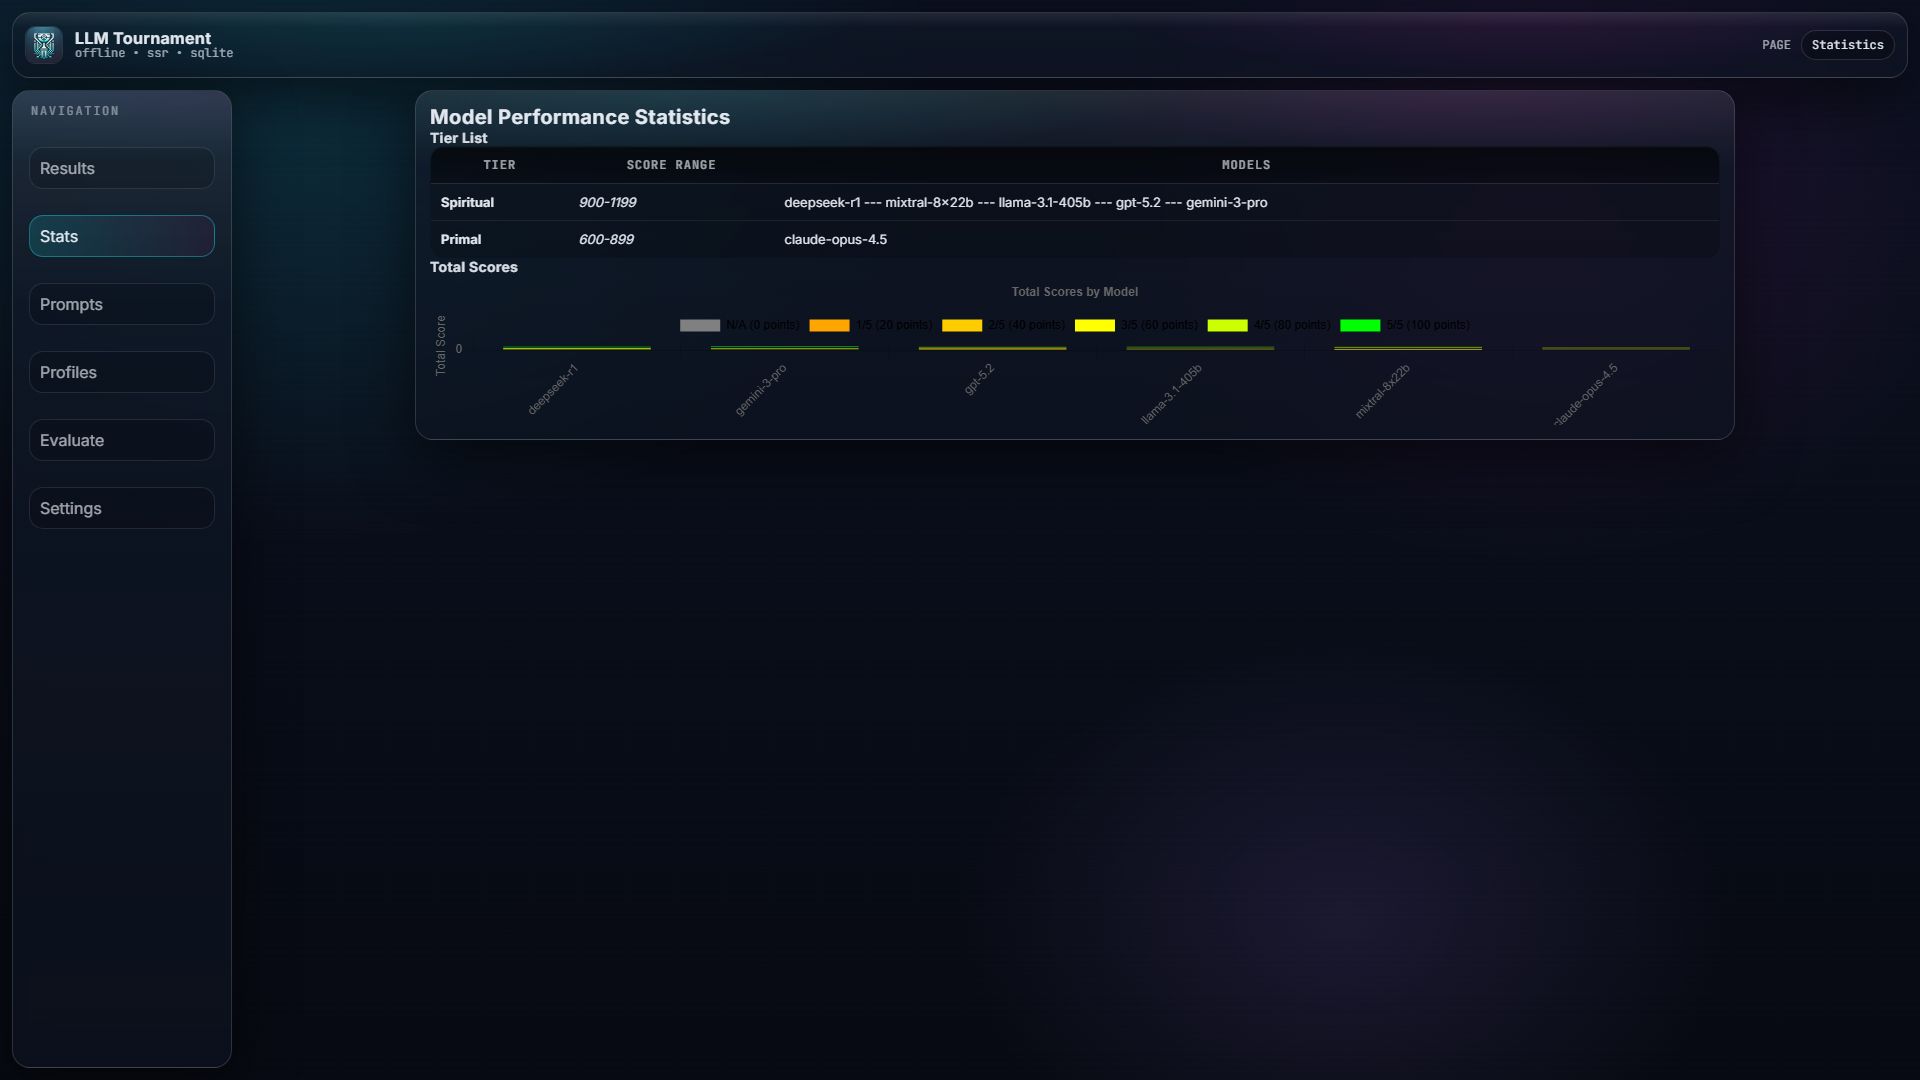
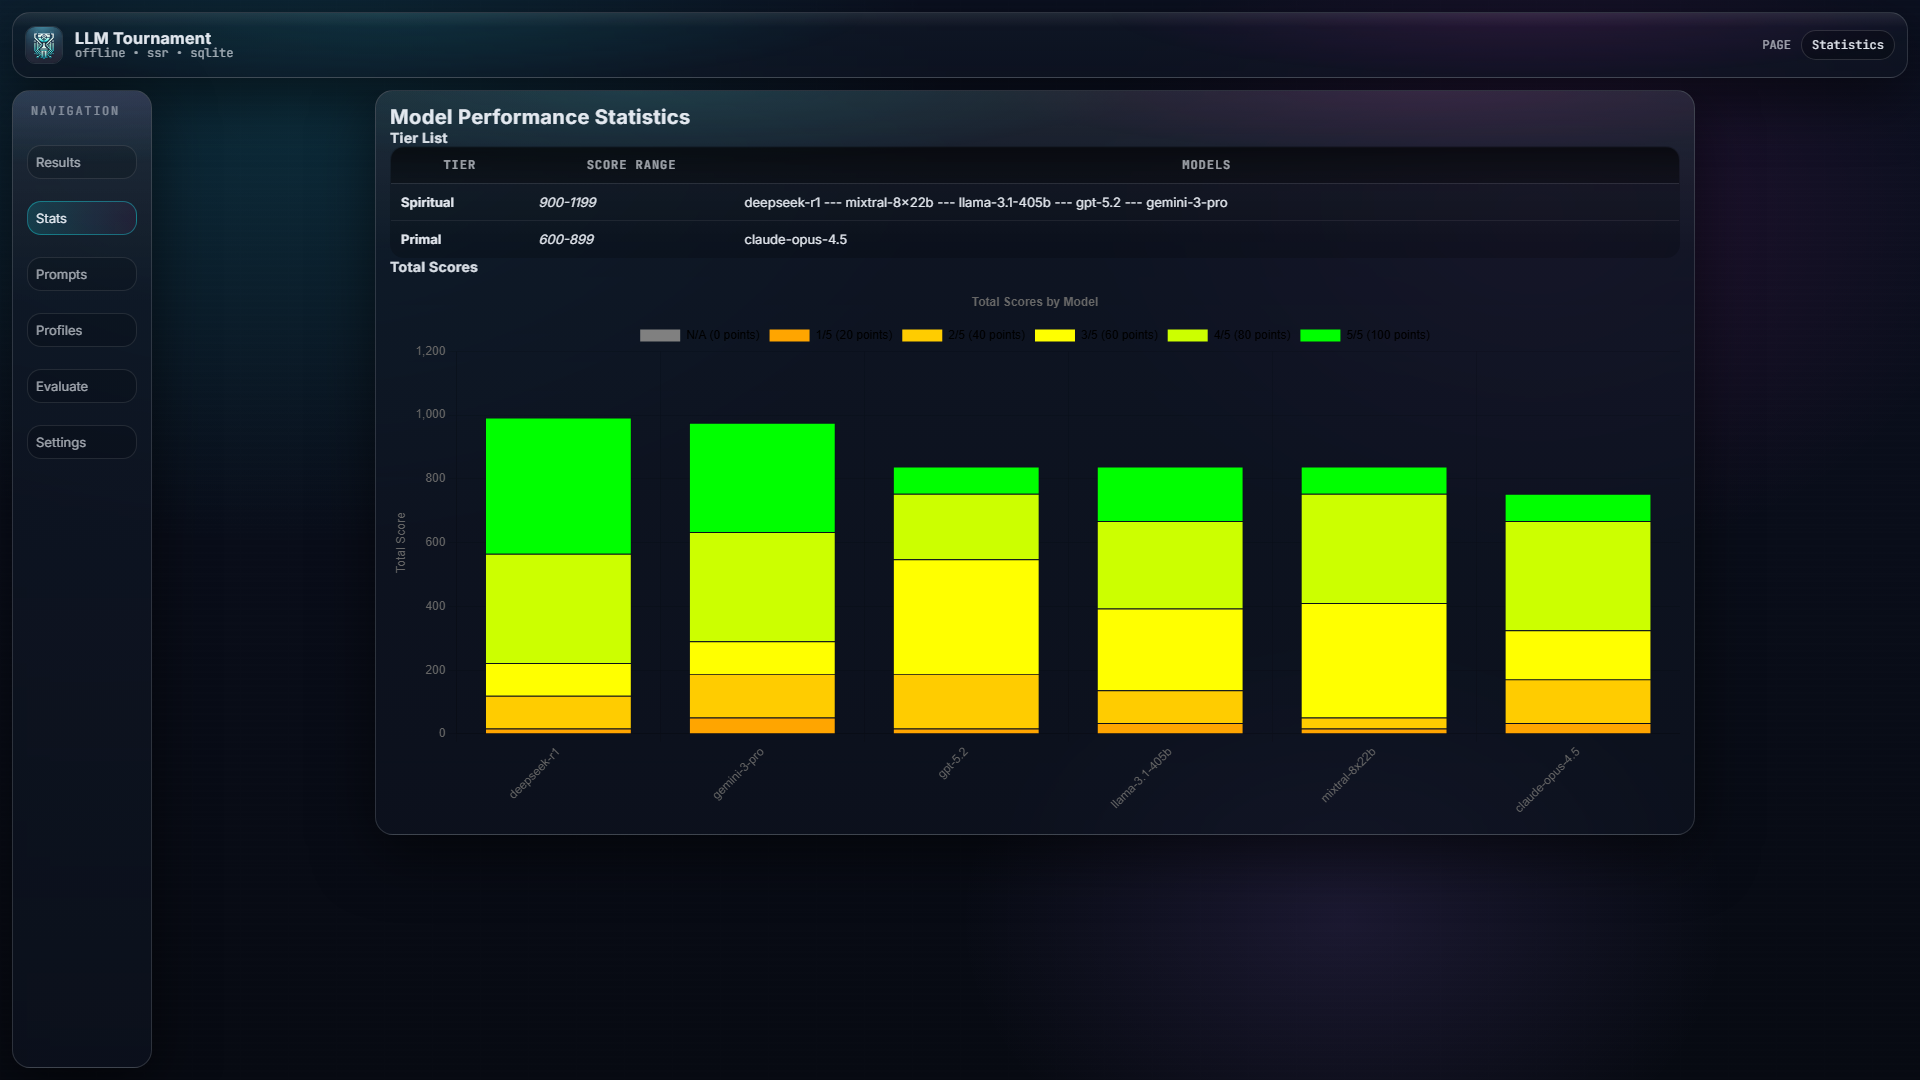
ui: fix stats chart and compact layout

diff --git a/templates/arena.css b/templates/arena.css
@@ -26,7 +26,7 @@
   --shell-pad: 12px;
   --shell-gap: 12px;
   --topbar-height: 66px;
-  --sidebar-width: 220px;
+  --sidebar-width: 140px;
   --content-max-width: 1320px;
 
   --mono: "JetBrains Mono", ui-monospace, "Cascadia Mono", Consolas, Menlo,
@@ -101,6 +101,19 @@
   align-items: center;
   justify-content: flex-start;
   margin-bottom: 10px;
+}
+
+.evaluation-form .score-buttons {
+  justify-content: center;
+}
+
+.evaluation-buttons {
+  display: flex;
+  align-items: center;
+  justify-content: center;
+  flex-wrap: wrap;
+  gap: 10px;
+  margin-top: 12px;
 }
 
 .score-button {
@@ -264,15 +277,16 @@ a:hover {
   display: flex;
   align-items: center;
   justify-content: space-between;
-  padding: 10px 10px;
+  padding: 8px 8px;
   border-radius: 14px;
   border: 1px solid rgba(255, 255, 255, 0.1);
   color: rgba(244, 248, 255, 0.64);
   text-decoration: none;
-  margin: 8px 6px;
+  margin: 6px 4px;
   background: rgba(0, 0, 0, 0.14);
   transition: transform 120ms ease, border-color 140ms ease, background 140ms ease,
     color 140ms ease;
+  font-size: 13px;
 }
 
 .nav-item:hover {
@@ -524,6 +538,25 @@ input[type="file"]:focus,
 .filter-form select {
   width: 240px;
   max-width: 100%;
+}
+
+.chart-container {
+  height: 52vh;
+  overflow-y: auto;
+  display: flex;
+  flex-direction: column;
+  gap: 10px;
+}
+
+.chart-wrapper {
+  position: relative;
+  width: 100%;
+  min-height: 340px;
+}
+
+.chart-wrapper canvas {
+  width: 100% !important;
+  height: 100% !important;
 }
 
 .filter-container form,

diff --git a/arena_ui_compaction_test.go b/arena_ui_compaction_test.go
@@ -109,3 +109,51 @@ func TestArenaCSS_ScrollButtonsUseSidebarSpace(t *testing.T) {
 	}
 }
 
+func TestArenaCSS_StatsChartsHaveUsableHeight(t *testing.T) {
+	t.Helper()
+
+	cssBytes, err := os.ReadFile("templates/arena.css")
+	if err != nil {
+		t.Fatalf("read templates/arena.css: %v", err)
+	}
+	css := string(cssBytes)
+
+	wrapper := cssBlock(t, css, ".chart-wrapper")
+	if !(strings.Contains(wrapper, "min-height:") || strings.Contains(wrapper, "height:")) {
+		t.Fatalf("templates/arena.css .chart-wrapper must define a height so Chart.js can render visible bars")
+	}
+}
+
+func TestArenaCSS_SidebarFurtherCompacted(t *testing.T) {
+	t.Helper()
+
+	cssBytes, err := os.ReadFile("templates/arena.css")
+	if err != nil {
+		t.Fatalf("read templates/arena.css: %v", err)
+	}
+	css := string(cssBytes)
+
+	if !strings.Contains(css, "--sidebar-width: 140px") {
+		t.Fatalf("templates/arena.css must further reduce --sidebar-width (expected 140px)")
+	}
+}
+
+func TestArenaCSS_EvaluatePageCentersScoreAndActions(t *testing.T) {
+	t.Helper()
+
+	cssBytes, err := os.ReadFile("templates/arena.css")
+	if err != nil {
+		t.Fatalf("read templates/arena.css: %v", err)
+	}
+	css := string(cssBytes)
+
+	scoreButtons := cssBlock(t, css, ".evaluation-form .score-buttons")
+	if !strings.Contains(scoreButtons, "justify-content: center") {
+		t.Fatalf("templates/arena.css .evaluation-form .score-buttons must center score selection")
+	}
+
+	evalButtons := cssBlock(t, css, ".evaluation-buttons")
+	if !strings.Contains(evalButtons, "justify-content: center") {
+		t.Fatalf("templates/arena.css .evaluation-buttons must be centered")
+	}
+}
